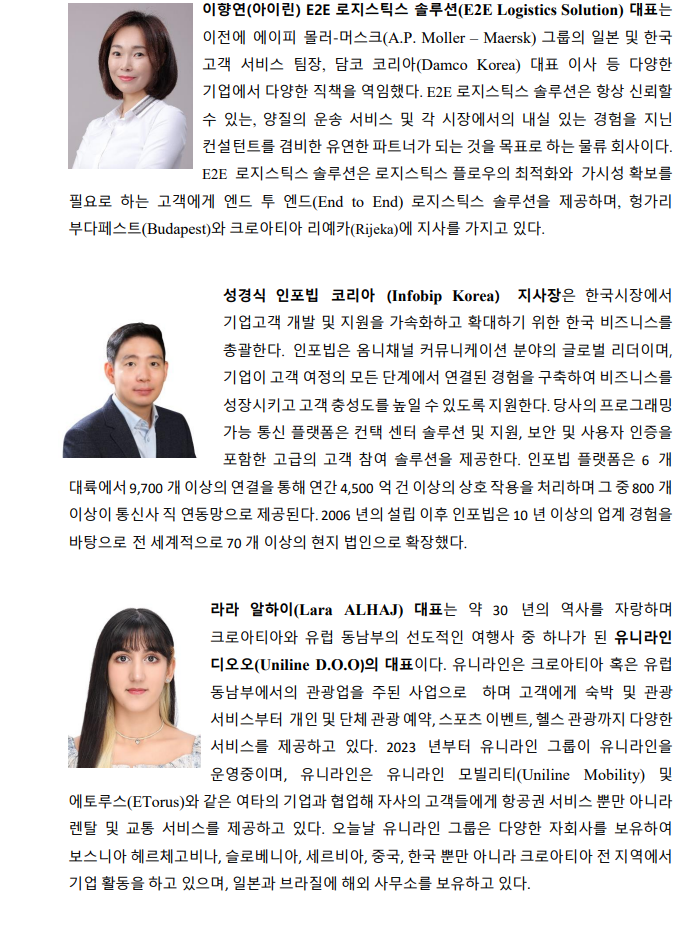
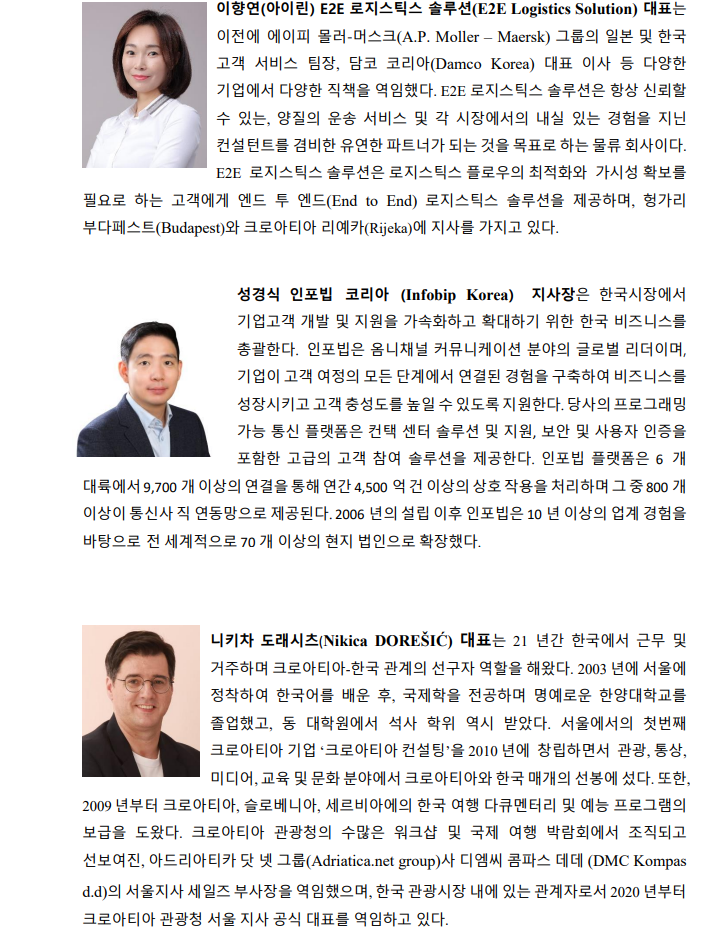
last

diff --git a/index.html b/index.html
@@ -41,5 +41,7 @@ p {text-align:center;
 <img src="Bios4.png" width="800"></image>
 <br><br><br><br><br>
 <img src="Bios5.png" width="800"></image>
+<br><br><br><br>
+<img src="Bios6.png" width="850"></image>
 </body>
 </html>
